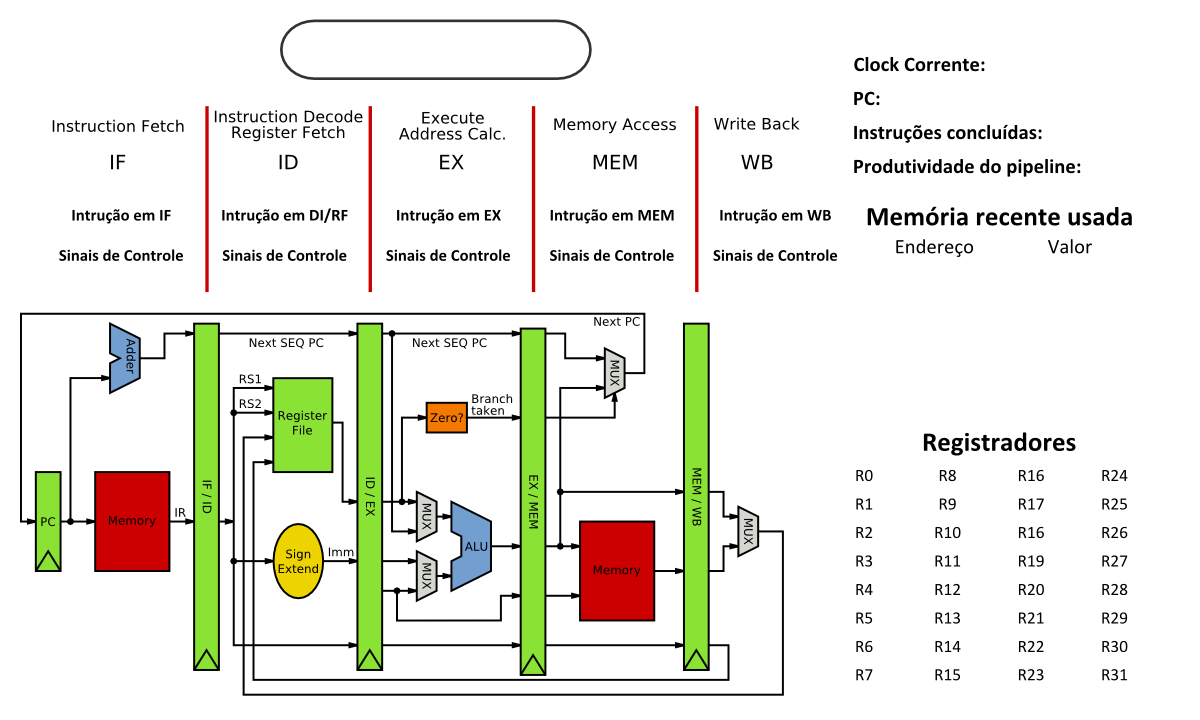
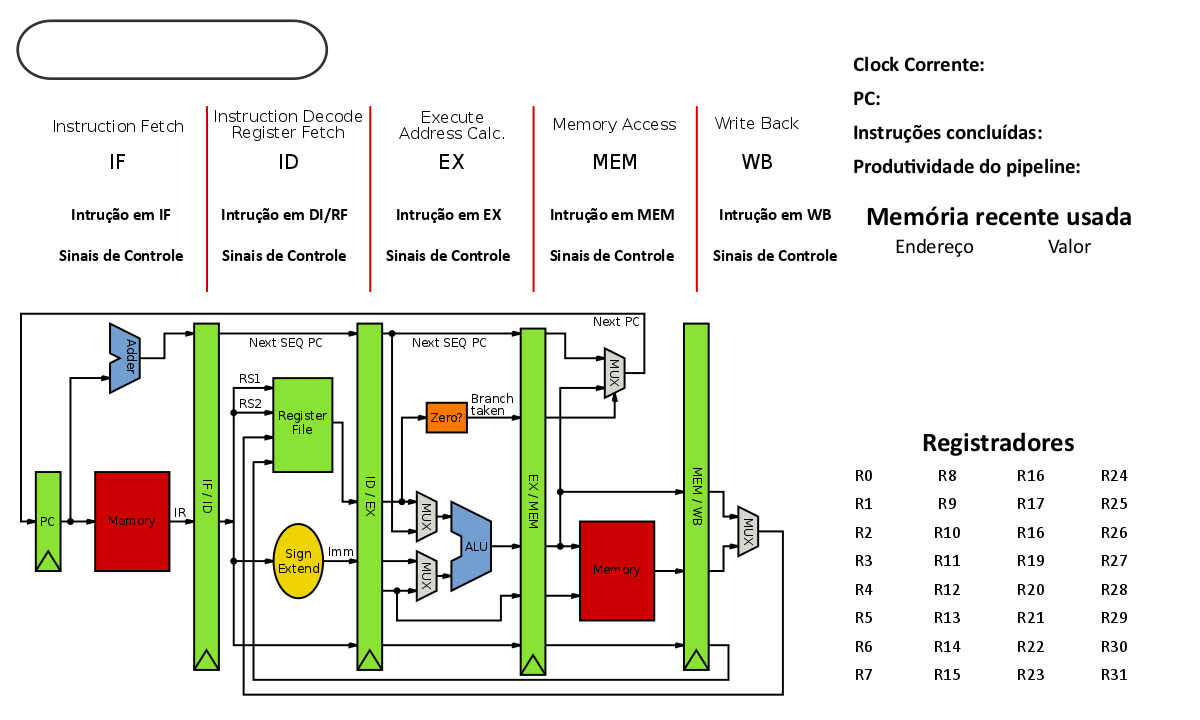
adicionando Label de arquivo selecionado; mudando imagem de fundo;

diff --git a/view.py b/view.py
@@ -1,5 +1,7 @@
 from Tkinter import *
 import ImageTk, time
+import tkFileDialog
+import tkFont
 from threading import Thread
 
 class geradorDeClock(Thread):
@@ -28,14 +30,16 @@ class Application(Frame):
     coluna_dir=1150
     coluna_end=889
     coluna_valor=1028
-    fonte_textos = "Arial 7"
-    fonte_maior = "Arial 10"
     lblbgcolor = "white"
     linr0 = 465
     colr0 = 890
     reglindist = 28.5
     regcoldist = 84.3
     pendulo = None
+
+    fonte_negrito = "Arial 12 bold"
+    fonte_textos = "Arial 12"
+    fonte_maior = "Arial 14"
 
     def quit(self):
         if pendulo != None:
@@ -72,6 +76,20 @@ class Application(Frame):
 
     def open(self):
         print "Open!"
+
+        # file choosing
+        master = Tk()
+        master.withdraw() # hiding tkinter window
+
+        file_path = tkFileDialog.askopenfilename(title="Open file", filetypes=[("txt file",".txt")])
+
+        if file_path != "":
+            print "You chose file with path:", file_path
+        else:
+            print "You should have chosen a file."
+
+        self.FileName["text"] = file_path
+
         if self.lclock["text"] == "?":
             self.lclock["text"] = "0"
         if self.lclock["text"] == "0":
@@ -79,9 +97,9 @@ class Application(Frame):
 
     def labels_iniciais(self):
         canvas = self.canvas
+        
         self.lclock = E1_instrucao = Label(self, text="l1:addi R10, R0, 100", bg=self.lblbgcolor, anchor=NW, font=self.fonte_textos, width=20)
         E1inst_window = canvas.create_window(51, self.linha_instrucoes, anchor=NW, window=E1_instrucao)
-
         self.E2_instrucao = E2_instrucao = Label(self, text="l2:sw R0, 24(R0)", bg=self.lblbgcolor, anchor=NW, font=self.fonte_textos, width=20)
         E2inst_window = canvas.create_window(215, self.linha_instrucoes, anchor=NW, window=E2_instrucao)
         self.E2_instrucao = E3_instrucao = Label(self, text="l3:sw R0, 28(R0)", bg=self.lblbgcolor, anchor=NW, font=self.fonte_textos, width=20)
@@ -90,6 +108,11 @@ class Application(Frame):
         E4inst_window = canvas.create_window(543, self.linha_instrucoes, anchor=NW, window=E4_instrucao)
         self.E2_instrucao = E5_instrucao = Label(self, text="l5:mul R7,R6,R6", bg=self.lblbgcolor, anchor=NW, font=self.fonte_textos, width=20)
         E5inst_window = canvas.create_window(707, self.linha_instrucoes, anchor=NW, window=E5_instrucao)
+        
+        self.FileNameLabel = FileNameLabel = Label(self, text="Choosen file:", bg=self.lblbgcolor, anchor=NW, font=self.fonte_negrito, width=40)
+        FileNameLabel_window = canvas.create_window(340, 30, anchor=NW, window=FileNameLabel)
+        self.FileName = FileName = Label(self, text="blablabla.txt", bg=self.lblbgcolor, anchor=NW, font=self.fonte_textos, width=80)
+        FileName_window = canvas.create_window(340, 50, anchor=NW, window=FileName)
 
         self.E1_controle = E1_controle = Label(self, text="", bg=self.lblbgcolor, anchor=NW, font=self.fonte_textos, width=20)
         E1cont_window = canvas.create_window(51, self.linha_controle, anchor=NW, window=E1_controle)
@@ -204,19 +227,19 @@ class Application(Frame):
 
         bplay = Button(self, text="Play", command=self.play, fg="darkgreen",
             width=25*self.razao, height=25*self.razao, image=bstart_img, bg="white", bd=0, activebackground="white")
-        bplay_window = canvas.create_window(306, self.linha_botoes, anchor=NW, window=bplay)
+        bplay_window = canvas.create_window(43, self.linha_botoes, anchor=NW, window=bplay)
         bpause = Button(self, text="Pause", command=self.pause, width=25*self.razao,
             height=25*self.razao, image=bpause_img, bg="white", bd=0, activebackground="white")
-        bpause_window = canvas.create_window(357, self.linha_botoes, anchor=NW, window=bpause)
+        bpause_window = canvas.create_window(94, self.linha_botoes, anchor=NW, window=bpause)
         bstop = Button(self, text="Stop", command=self.stop, width=25*self.razao,
             height=25*self.razao, image=bstop_img, bg="white", bd=0, activebackground="white")
-        bstop_window = canvas.create_window(408, self.linha_botoes, anchor=NW, window=bstop)
+        bstop_window = canvas.create_window(145, self.linha_botoes, anchor=NW, window=bstop)
         bnext = Button(self, text="next", command=self.next, width=25*self.razao,
             height=25*self.razao, image=bnext_img, bg="white", bd=0, activebackground="white")
-        bnext_window = canvas.create_window(459, self.linha_botoes, anchor=NW, window=bnext)
+        bnext_window = canvas.create_window(196, self.linha_botoes, anchor=NW, window=bnext)
         bopen = Button(self, text="Open", command=self.open, width=35*self.razao,
             height=25*self.razao, image=bopen_img, bg="white", bd=0, activebackground="white")
-        bopen_window = canvas.create_window(510, self.linha_botoes, anchor=NW, window=bopen)
+        bopen_window = canvas.create_window(247, self.linha_botoes, anchor=NW, window=bopen)
 
         self.labels_iniciais()
 

diff --git a/README.md b/README.md
@@ -3,6 +3,6 @@ mips - Simulador de Pipeline MIPS
 
 MIPS simulator
 
-Objetivo
+Objetivo:
 processadores com exploração de paralelismo entre instruções através de pipeline, dependências entre instruções e comparação de desempenho de sistemas através de benchmarks, assuntos estudados durante o curso de Arquiteturas para Alto Desempenho
 
